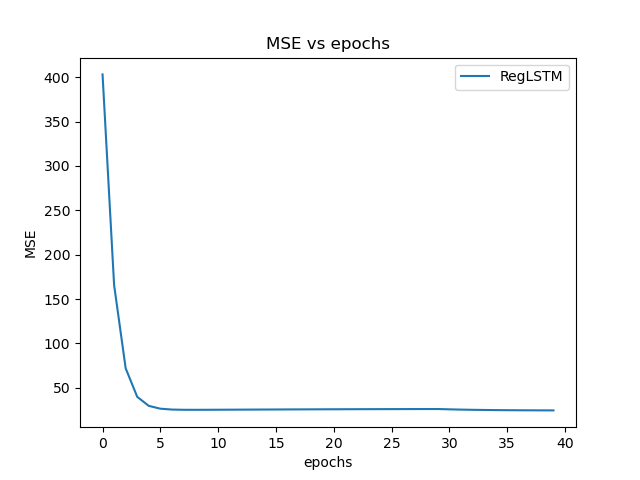
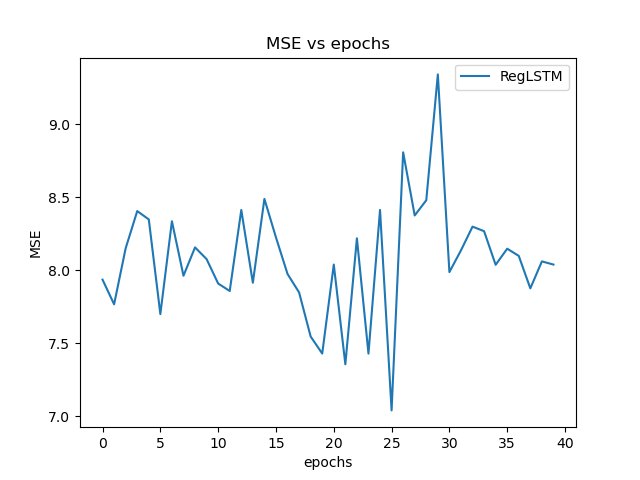
regLSTM init

diff --git a/MoslehLSTM/csi_bd.py b/MoslehLSTM/csi_bd.py
@@ -58,7 +58,7 @@ class model_trainer():
                  linear_dim=250,
                  mid_layers=2,
                  batch_size=30,
-                 learning_rate=1e-2,
+                 learning_rate=1e-3,
                  lr_decay_freq=30,
                  lr_decay=0.1,
                  best_loss=100,
@@ -174,7 +174,7 @@ class model_trainer():
                     
                 end = time.time()
                 t = end - start
-                self.average_loss = self.total_loss / len(self.test_dataset) * 90
+                self.average_loss = self.total_loss / (i+1)
                 # print("len(self.test_dataset):", len(self.test_dataset))
                 # self.average_rho = self.total_rho / len(list(enumerate(self.test_loader)))
                 self.x_label.append(epoch)
